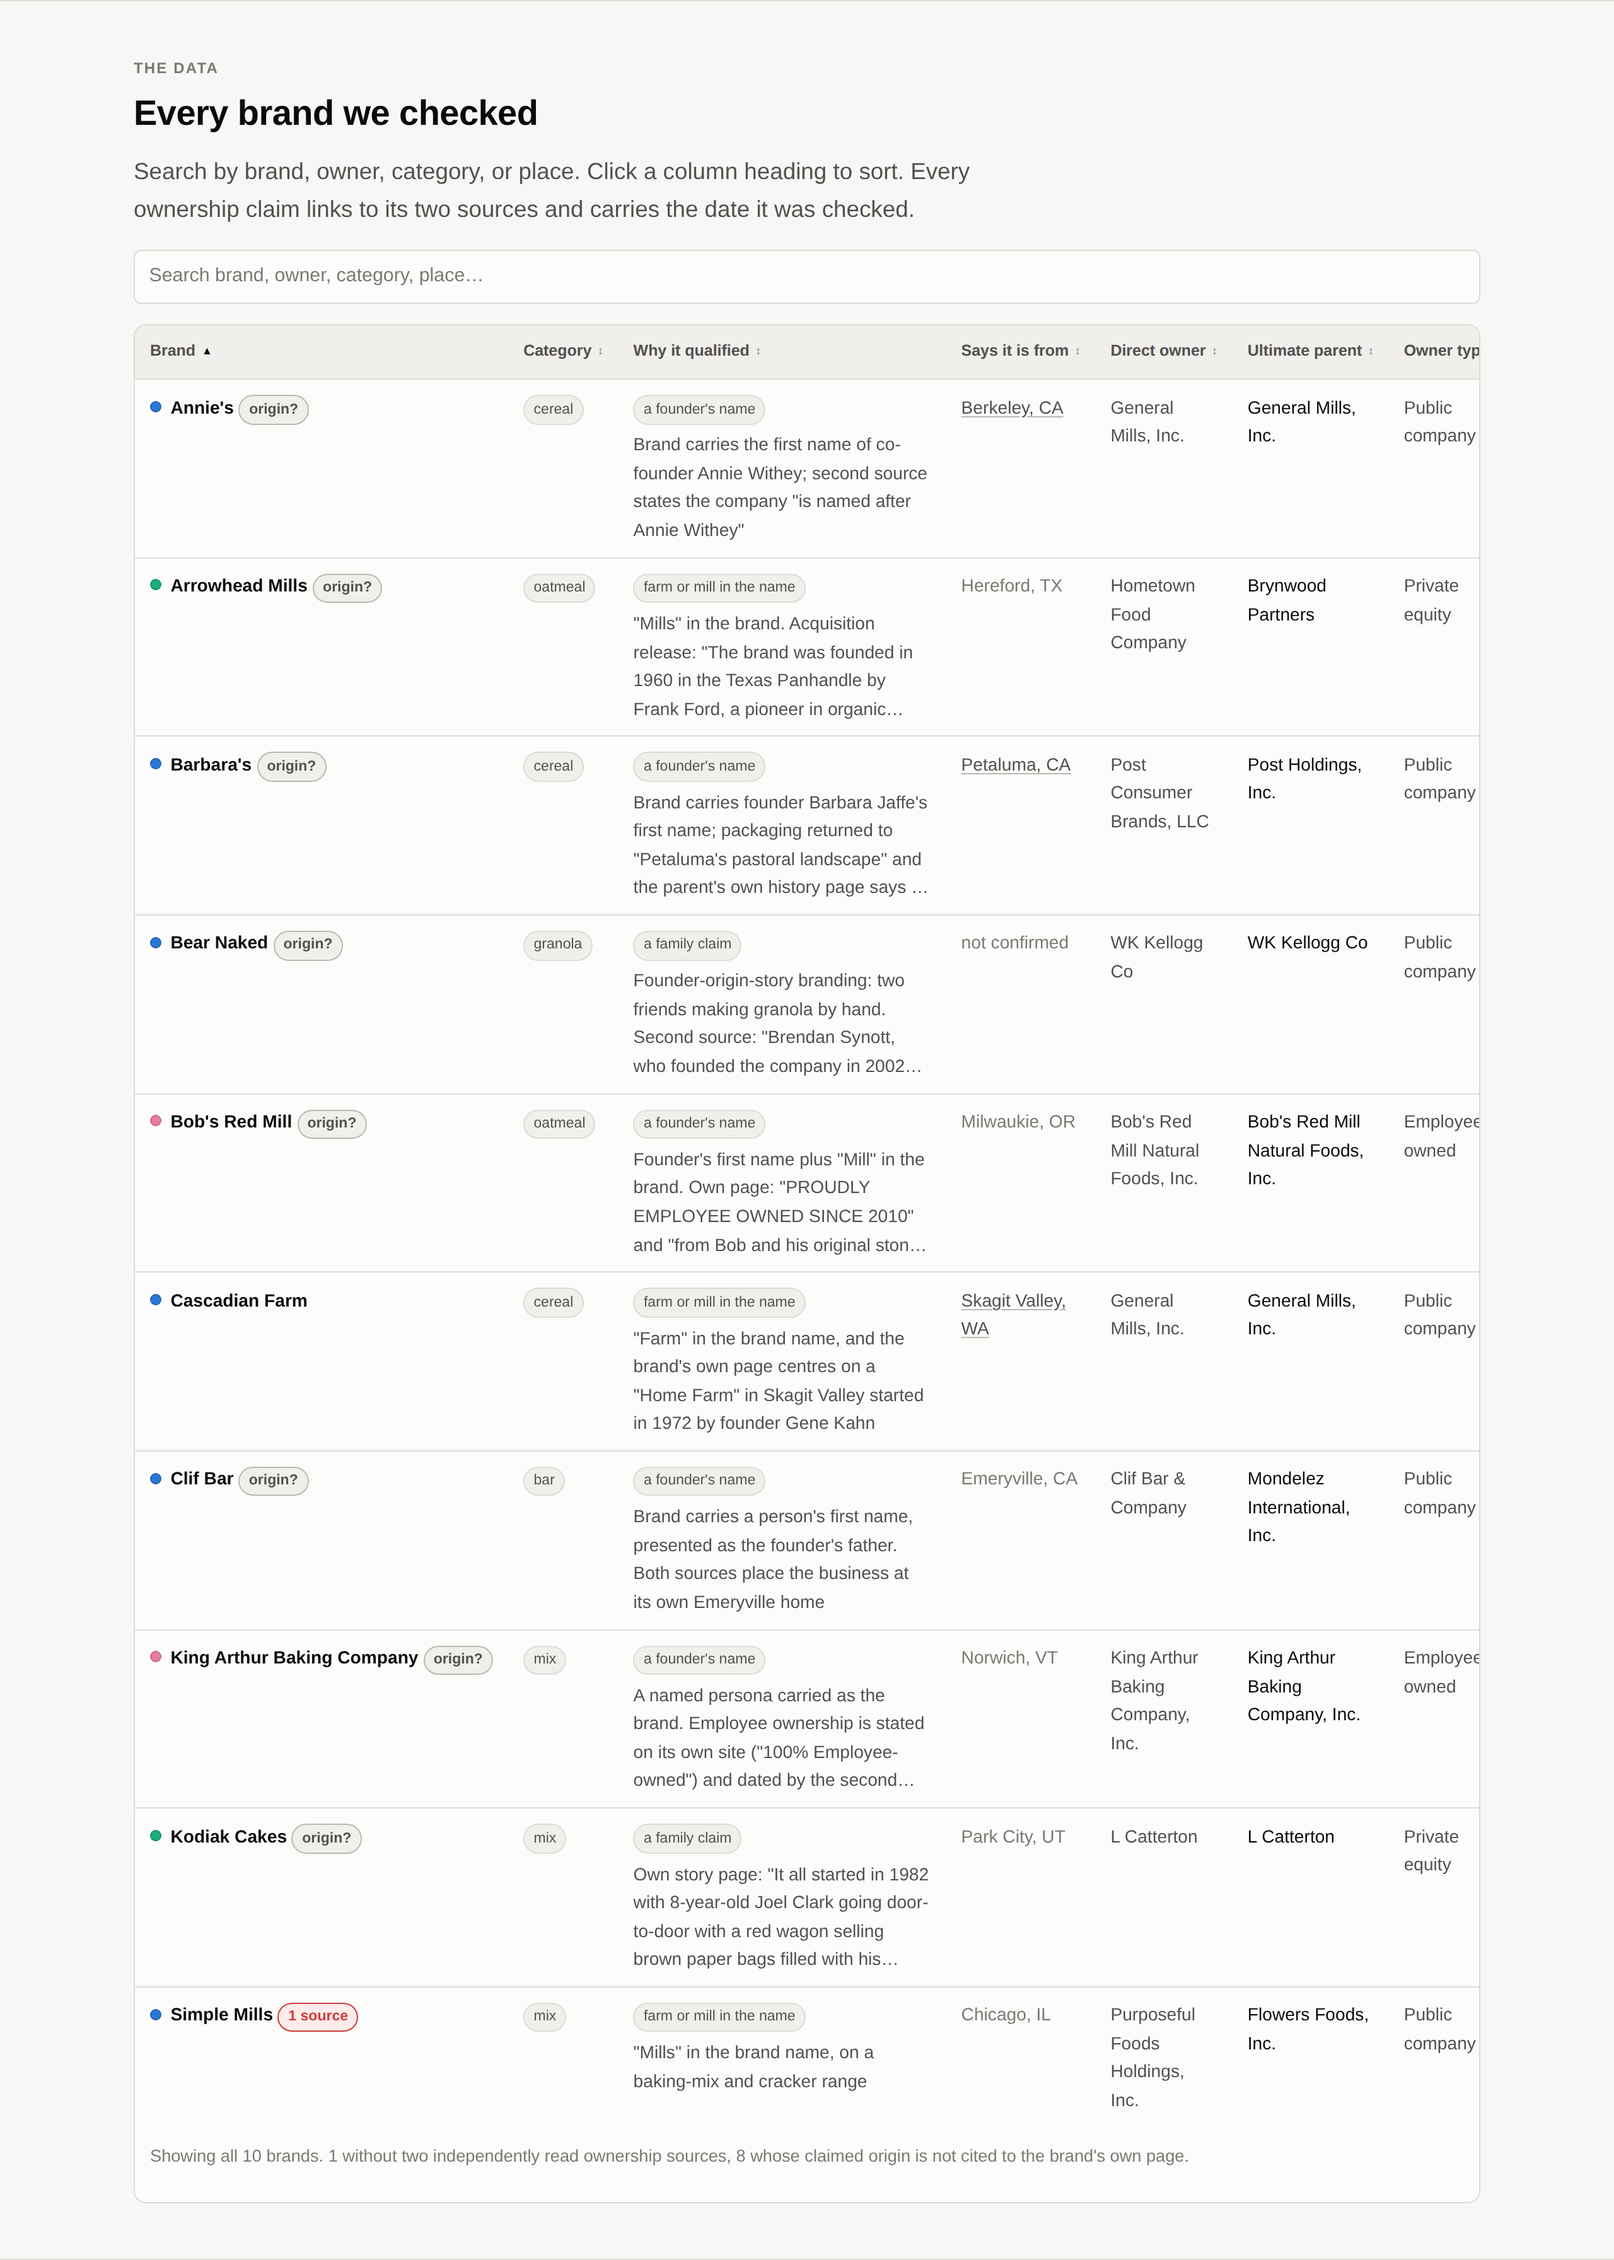
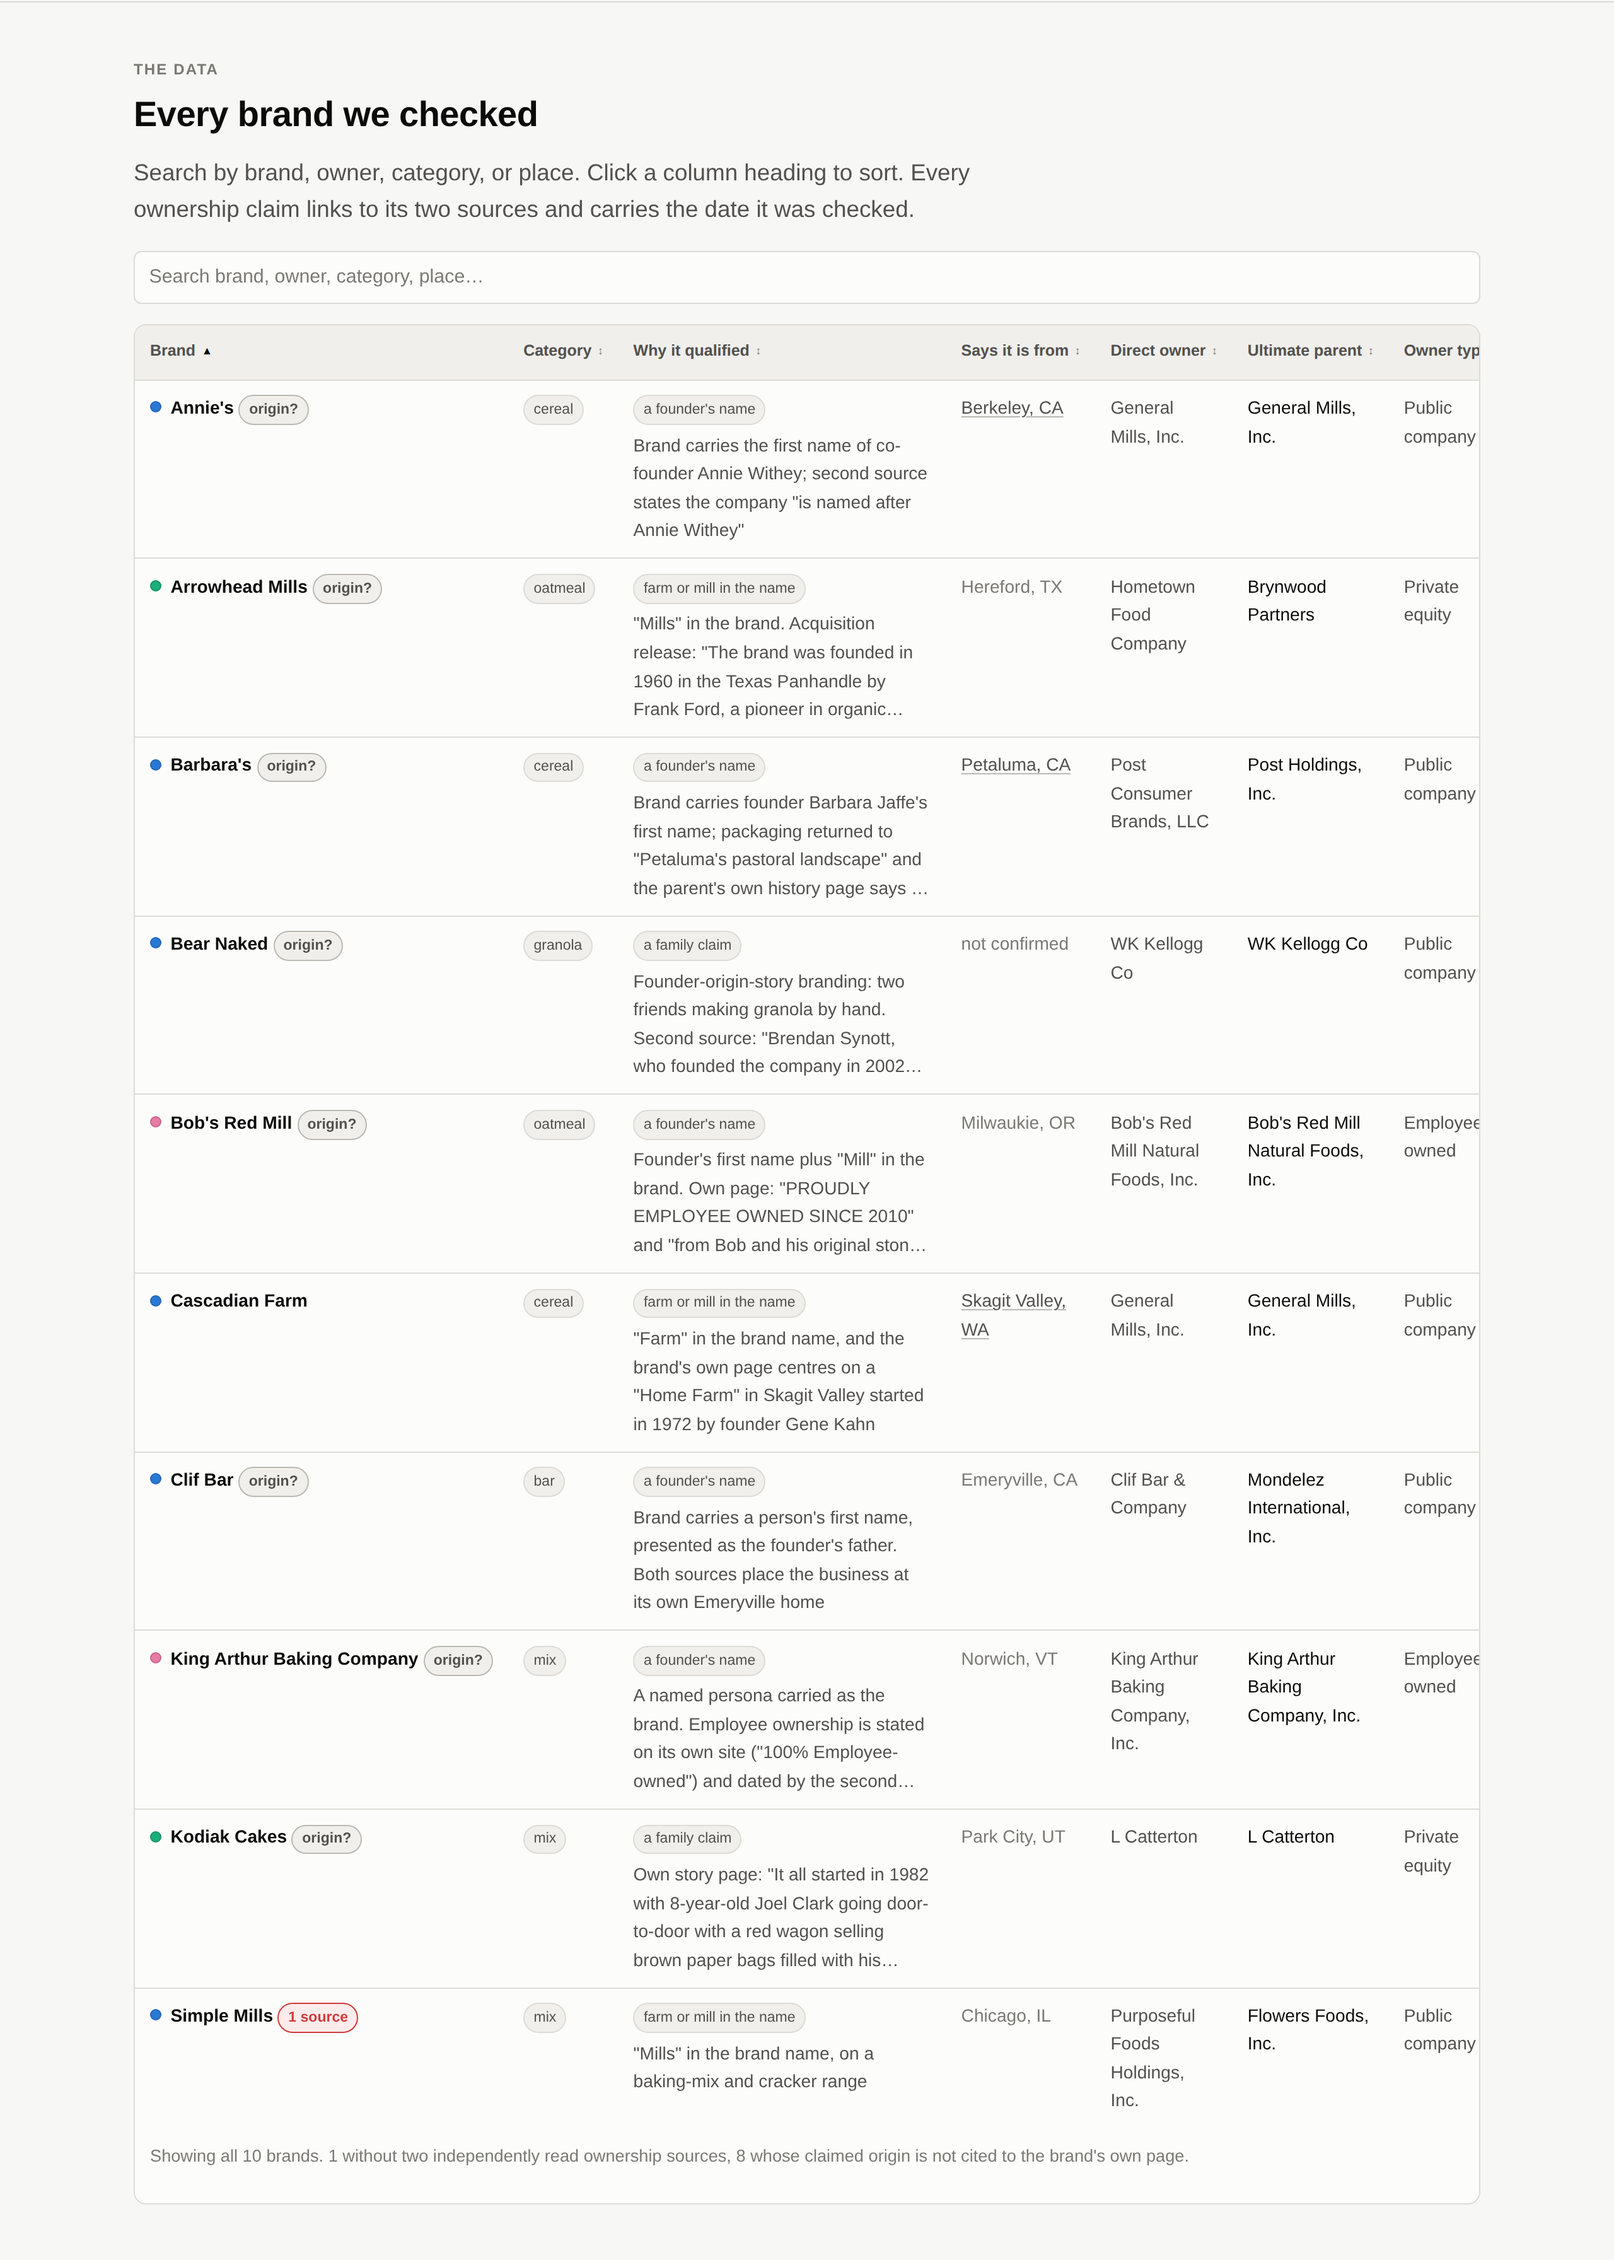
Serve D3 and Leaflet from site/vendor, and fix the ribbon colours
Points the page at the vendored copies instead of the CDN, so the only
third-party request left is the map tiles. The library-missing checks in
the bootstrap stay: they cost nothing and still catch a file that failed to
load for any other reason.

Fixes a real bug that only appeared once the chart could finally be
rendered in a browser. tree.js sets each Sankey ribbon's stroke to its
owner's colour as a presentation attribute, but styles.css also declared
`stroke` on `.sankey__link`. A class rule beats a presentation attribute on
specificity, so every ribbon was painted the same grey and the colour
encoding was silently thrown away. Removing that one declaration restores
it: three distinct ribbon colours now, one per owner type present.

Verified by rendering: 19 Sankey nodes (10 brands, 9 parents), 10 links, 7
map lines, 18 markers, and clicking a brand dims 9 ribbons, activates 1 and
selects its table row.

README now carries real screenshots of the tree and the map.

Claude-Session: https://claude.ai/code/session_01RfwRc2eyU1LgPmqpKntxTc

diff --git a/site/index.html b/site/index.html
@@ -10,8 +10,13 @@
 <meta name="description" content="A sourced dataset of breakfast-aisle brands that sell themselves with a farm, a family, or a founder's name, and who owns each one today.">
 
 <!-- Leaflet's stylesheet has to load before its script draws anything, or the
-     map tiles stack up in the wrong places. -->
-<link rel="stylesheet" href="https://cdn.jsdelivr.net/npm/leaflet@1.9.4/dist/leaflet.css">
+     map tiles stack up in the wrong places.
+
+     Everything this page loads comes from its own origin. The libraries live
+     in site/vendor/, fetched once by the "Vendor front-end libraries"
+     workflow rather than from a CDN, so the page has no third-party
+     dependency at all: if GitHub Pages is up, the page works. -->
+<link rel="stylesheet" href="vendor/leaflet.css">
 <link rel="stylesheet" href="styles.css">
 </head>
 
@@ -294,10 +299,16 @@
        d3-sankey   the plugin that computes the flow layout D3 does not ship
        leaflet     the map library
      then this project's three view modules, then the bootstrap below.
+
+     These are local copies in site/vendor/, not CDN links. See
+     site/vendor/README.md for versions, licences and checksums. The
+     library-missing checks in the bootstrap below are kept anyway: they cost
+     nothing and they still catch a file that failed to load for any other
+     reason.
      ====================================================================== -->
-<script src="https://cdn.jsdelivr.net/npm/d3@7.9.0/dist/d3.min.js"></script>
-<script src="https://cdn.jsdelivr.net/npm/d3-sankey@0.12.3/dist/d3-sankey.min.js"></script>
-<script src="https://cdn.jsdelivr.net/npm/leaflet@1.9.4/dist/leaflet.js"></script>
+<script src="vendor/d3.min.js"></script>
+<script src="vendor/d3-sankey.min.js"></script>
+<script src="vendor/leaflet.js"></script>
 
 <script src="tree.js"></script>
 <script src="map.js"></script>

diff --git a/site/styles.css b/site/styles.css
@@ -379,11 +379,16 @@ section + section {
   height: auto;
 }
 
-/* Sankey link. Thin, translucent, and it thickens on hover rather than
-   changing colour, so the colour keeps meaning only one thing. */
+/* Sankey link. Translucent, and it changes opacity on hover rather than
+   colour, so the colour keeps meaning only one thing.
+
+   Deliberately no `stroke` here. tree.js sets each ribbon's stroke to its
+   owner's colour as a presentation attribute, and a class rule like this one
+   beats a presentation attribute on specificity. Declaring a stroke here
+   silently repainted every ribbon grey and threw away the colour encoding.
+   The bug was invisible until the chart was rendered in a real browser. */
 .sankey__link {
   fill: none;
-  stroke: var(--border-strong);
   stroke-opacity: 0.38;
   transition: stroke-opacity 120ms ease;
 }

diff --git a/README.md b/README.md
@@ -22,9 +22,18 @@ count.
 
 ![The page's headline and summary tiles](docs/screenshot.png)
 
-The screenshot shows the headline and the summary tiles. The ownership tree and
-the map are not in it because they need D3 and Leaflet from a CDN that the
-machine this was built on could not reach. They render normally in a browser.
+**The ownership tree.** Brands on the left, owners on the right, ribbons
+coloured by the kind of owner.
+
+![The ownership tree, a Sankey diagram](docs/screenshot-tree.png)
+
+**The map.** A small ring is where the brand says it is from, a larger disc is
+its owner's headquarters, and the dashed line is the distance between the story
+and the structure. Two brands here sit alone with no line, because they are
+still run from the town they are named after. The map backdrop is blank in this
+screenshot only: the tile server was unreachable from the machine that took it.
+
+![The map, claimed origin joined to owner headquarters](docs/screenshot-map.png)
 
 ## How brands were chosen
 
@@ -90,6 +99,8 @@ two-source rule earning its keep.
         +--> tree.js       D3 Sankey: brands on the left, owners on the right
         +--> map.js        Leaflet: claimed origin --- owner headquarters
         +--> table.js      every row, every source, every date
+        |
+        +--> vendor/       D3, d3-sankey and Leaflet, committed copies
 ```
 
 The CSV is the only place a fact is entered by hand. `validate.py` checks that
@@ -98,6 +109,13 @@ each row carries what it claims to and asks Wikidata for a second opinion.
 the page displays, and writes one JSON file. That file is committed, so the page
 works even if nobody ever runs the pipeline again. The page fetches it once and
 does no other network calls, which is why a dead API can never break it.
+
+The libraries live in `site/vendor/` rather than on a CDN, fetched once by the
+"Vendor front-end libraries" workflow and checked in with their versions,
+licences and SHA-256 checksums. So every file the page needs comes from its own
+origin, and the only third-party request left is the map tiles, which have to
+come from a tile server. Re-run that workflow to upgrade a library; nothing else
+should ever write to that folder.
 
 ### Layers
 
@@ -181,6 +199,8 @@ worth more than a clean-looking dataset with a hole in it.
   parent.
 - **Wikidata was unreachable while curating**, so no row uses it as a source.
   The cross-check code is complete and runs from a laptop.
+- **The map tiles are the one remaining third-party request.** Everything else
+  is served from this site's own origin.
 
 ## Decisions
 
@@ -194,5 +214,6 @@ queue, and the decisions made during research.
 Ownership data hand-curated from company materials, filings and news reports.
 Map tiles by [CARTO](https://carto.com/attributions), map data by
 [OpenStreetMap](https://www.openstreetmap.org/copyright) contributors. Charts
-built with [D3](https://d3js.org/) and [Leaflet](https://leafletjs.com/).
+built with [D3](https://d3js.org/) (ISC) and [Leaflet](https://leafletjs.com/)
+(BSD-2-Clause), both vendored into `site/vendor/` with their licences.
 Brand names appear as plain text; no logos or packaging images are used.
